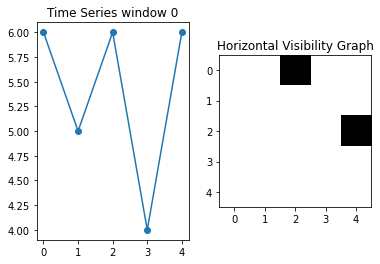
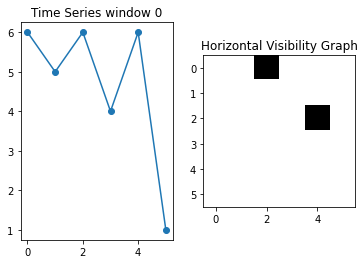
fixed bugs in the code

diff --git a/entropy.py b/entropy.py
@@ -36,6 +36,14 @@ def count_edges(hvg):
     return np.sum(hvg)
 
 
+#count the motifs having the same number of edges.
+def count_occurrences(edges):
+    counts = []
+    for num in range(max(edges) + 1):  # Assuming the numbers in the list start from 0
+        counts.append(edges.count(num))
+    return counts
+
+
 #Shannon entropy on grouped horizontal visibility graph
 def shannon_entropy(frequencies):
     total_count = sum(frequencies)
@@ -46,17 +54,20 @@ def shannon_entropy(frequencies):
 
 def kl_divergence(p, q):
     # Compute KL divergence
+    if p == 0 or q == 0:
+        return 0  # or any other appropriate value when division by zero occurs
+    
     return p * np.log(p / q)
     
 
 # Example time series
-series = np.array([6,5,6,4,6,1,6])
+series = np.array([6,5,6,4,6,1,6,1,1,1,1,1])
 
 n = len(series)
 
-window = 5
+window = 6
 
-frequency = []
+edges = []
 for i in range(0, n-window+1):
     time_series=series[i:i+window]
 
@@ -67,7 +78,7 @@ for i in range(0, n-window+1):
     num_edges = count_edges(hvg)
     print("Number of edges in the HVG"+ str(i)+": "+str(time_series), num_edges)
     
-    frequency.append(num_edges)
+    edges.append(num_edges)
     # Plot the time series and the HVG
     plt.subplot(1, 2, 1)
     plt.plot(time_series, marker='o')
@@ -78,10 +89,13 @@ for i in range(0, n-window+1):
     plt.title('Horizontal Visibility Graph')
     plt.show()
 
+frequency = count_occurrences(edges)
 print("Grouped Horizontal Visibility Graph Entropy: "+str(shannon_entropy(frequency)))
 
 
-visible_motifs = np.count_nonzero(frequency)
-non_visible_motif = visible_motifs-(window-1)
-divergence = kl_divergence(visible_motifs/len(frequency), non_visible_motif/len(frequency))
+visible_motifs = np.count_nonzero(edges)
+non_visible_motif = abs(len(edges)-visible_motifs)
+p = visible_motifs/len(edges) 
+q = non_visible_motif/len(edges)
+divergence = kl_divergence(p, q)
 print("Time Irreversibility of Visible and Non-visible: "+str(divergence))

diff --git a/README.md b/README.md
@@ -14,57 +14,26 @@ Steady decrease without intermediate fluctuations.
 Steady increase followed by a decrease without intermediates.
 
 
-## Output: window of size 3
-```bash
-Number of edges in the HVG 0: [6 5 6] 1
-Number of edges in the HVG 1: [5 6 4] 0
-Number of edges in the HVG 2: [6 4 6] 1
-Number of edges in the HVG 3: [4 6 1] 0
-Number of edges in the HVG 4: [6 1 6] 1
-Grouped Horizontal Visibility Graph Entropy: 1.584962500721156
-Time Irreversibility of Visible and Non-visible: 0.6591673732008657
-```
-
-!["Number of edges in the HVG 0"](https://github.com/gulraizchoudhary/horizontal-visibility-graph-entropy/blob/main/img/Figure0.png)
-!["Number of edges in the HVG 1"](https://github.com/gulraizchoudhary/horizontal-visibility-graph-entropy/blob/main/img/Figure1.png)
-
-!["Number of edges in the HVG 2"](https://github.com/gulraizchoudhary/horizontal-visibility-graph-entropy/blob/main/img/Figure2.png)
-!["Number of edges in the HVG 3"](https://github.com/gulraizchoudhary/horizontal-visibility-graph-entropy/blob/main/img/Figure3.png)
-!["Number of edges in the HVG 4"](https://github.com/gulraizchoudhary/horizontal-visibility-graph-entropy/blob/main/img/Figure4.png)
-
-
-## Output: window of size 4
-```bash
-A window of size 4 is selected:
-Number of edges in the HVG0: [6 5 6 4] 1
-Number of edges in the HVG1: [5 6 4 6] 1
-Number of edges in the HVG2: [6 4 6 1] 1
-Number of edges in the HVG3: [4 6 1 6] 1
-Grouped Horizontal Visibility Graph Entropy: 2.0
-Time Irreversibility of Visible and Non-visible: 1.3862943611198906
-```
-
-
-!["Number of edges in the HVG 0"](https://github.com/gulraizchoudhary/horizontal-visibility-graph-entropy/blob/main/img/Figure_w4_0.png)
-!["Number of edges in the HVG 1"](https://github.com/gulraizchoudhary/horizontal-visibility-graph-entropy/blob/main/img/Figure_w4_1.png)
-
-!["Number of edges in the HVG 2"](https://github.com/gulraizchoudhary/horizontal-visibility-graph-entropy/blob/main/img/Figure_w4_2.png)
-!["Number of edges in the HVG 2"](https://github.com/gulraizchoudhary/horizontal-visibility-graph-entropy/blob/main/img/Figure_w4_3.png)
-
-
 ## Output: window of size 5
 ```bash
-Number of edges in the HVG0: [6 5 6 4 6] 2
-Number of edges in the HVG1: [5 6 4 6 1] 1
-Number of edges in the HVG2: [6 4 6 1 6] 2
-Grouped Horizontal Visibility Graph Entropy: 1.5219280948873621
-Time Irreversibility of Visible and Non-visible: 1.3862943611198906
+Number of edges in the HVG0: [6 5 6 4 6 1] 2
+Number of edges in the HVG1: [5 6 4 6 1 6] 2
+Number of edges in the HVG2: [6 4 6 1 6 1] 2
+Number of edges in the HVG3: [4 6 1 6 1 1] 1
+Number of edges in the HVG4: [6 1 6 1 1 1] 1
+Number of edges in the HVG5: [1 6 1 1 1 1] 0
+Number of edges in the HVG6: [6 1 1 1 1 1] 0
+Grouped Horizontal Visibility Graph Entropy: 1.5566567074628228
+Time Irreversibility of Visible and Non-visible: 0.6544933799101108
 ```
 
 !["Number of edges in the HVG 0"](https://github.com/gulraizchoudhary/horizontal-visibility-graph-entropy/blob/main/img/Figure_w5_0.png)
 !["Number of edges in the HVG 1"](https://github.com/gulraizchoudhary/horizontal-visibility-graph-entropy/blob/main/img/Figure_w5_1.png)
-
 !["Number of edges in the HVG 2"](https://github.com/gulraizchoudhary/horizontal-visibility-graph-entropy/blob/main/img/Figure_w5_2.png)
+!["Number of edges in the HVG 0"](https://github.com/gulraizchoudhary/horizontal-visibility-graph-entropy/blob/main/img/Figure_w5_3.png)
+!["Number of edges in the HVG 1"](https://github.com/gulraizchoudhary/horizontal-visibility-graph-entropy/blob/main/img/Figure_w5_4.png)
+!["Number of edges in the HVG 2"](https://github.com/gulraizchoudhary/horizontal-visibility-graph-entropy/blob/main/img/Figure_w5_5.png)
+!["Number of edges in the HVG 2"](https://github.com/gulraizchoudhary/horizontal-visibility-graph-entropy/blob/main/img/Figure_w5_6.png)
 
 ## Acknowledgements
 Credit goes to Gulraiz Iqbal Choudhary, You may consider to read the following paper for more understanding and cite it if you have used the algorithm. 
